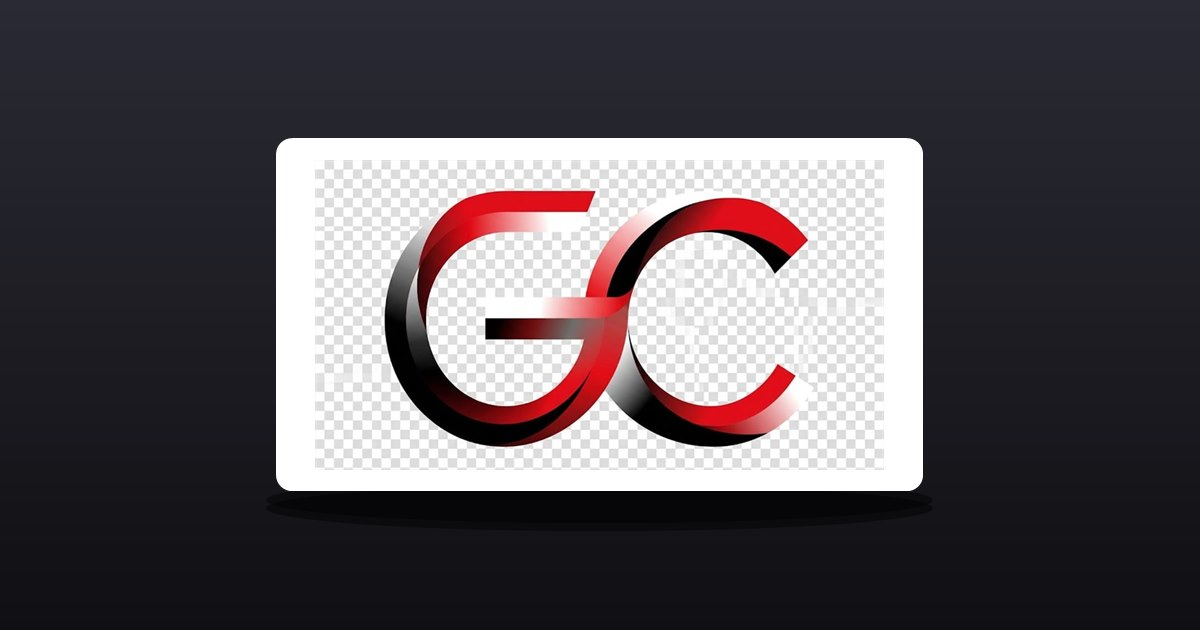
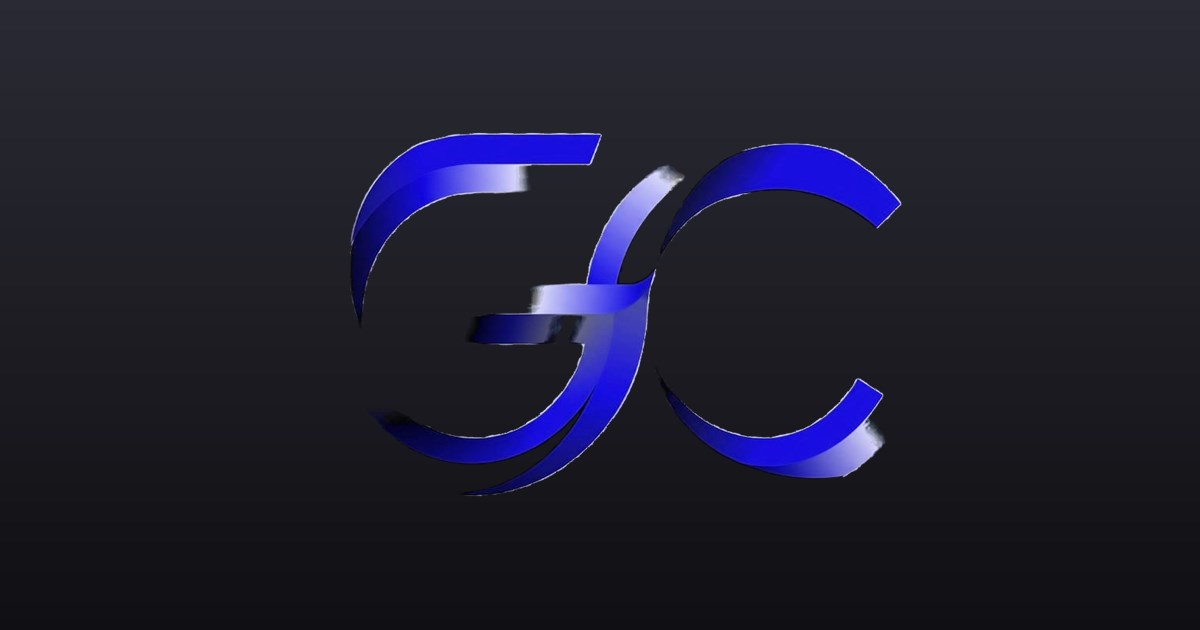
Add files via upload

diff --git a/public/intro.css b/public/intro.css
@@ -47,49 +47,41 @@ html.gc-intro-active body {
   text-align: center;
 }
 
-/* ---------- بطاقة الشعار ---------- */
+/* ---------- الشعار: شفاف تماماً، من غير أي خلفية ---------- */
+/* drop-shadow على عنصر شفاف بيلقط شكل الشعار نفسه، فبيعمل "عمق" من غير كارت */
 .gc-intro-logo {
   position: relative;
-  width: min(78vw, 380px);
-  padding: 22px 26px;
-  border-radius: 26px;
-  background: #fff;
-  box-shadow:
-    0 30px 70px rgba(0, 0, 0, 0.55),
-    0 0 0 1px rgba(255, 255, 255, 0.12) inset;
-  overflow: hidden;
+  width: min(58vw, 250px);
   opacity: 0;
-  transform: translateY(26px) scale(0.9) rotate(-2deg);
+  transform: translateY(26px) scale(0.88) rotate(-3deg);
+  filter: drop-shadow(0 18px 40px rgba(224, 33, 43, 0.32))
+          drop-shadow(0 4px 14px rgba(0, 0, 0, 0.45));
   animation: gcLogoIn 0.95s cubic-bezier(0.16, 1, 0.3, 1) 0.12s forwards;
 }
 .gc-intro-logo img {
   display: block;
   width: 100%;
   height: auto;
-  /* لو الشعار أبيض خلفيته بنخليه object-fit عشان مايطولشش */
-  object-fit: contain;
 }
 .gc-intro-logo::before {
-  /* لمعة بتعدي فوق الشعار */
+  /* هالة ناعمة ورا الشعار بدل الكارت الأبيض */
   content: "";
   position: absolute;
-  top: 0;
-  left: -60%;
-  width: 45%;
-  height: 100%;
-  background: linear-gradient(100deg, transparent, rgba(0, 0, 0, 0.16), transparent);
-  transform: skewX(-18deg);
-  animation: gcShine 1.5s ease 0.85s 1;
+  inset: -28%;
+  z-index: -1;
+  border-radius: 50%;
+  background: radial-gradient(closest-side, rgba(224, 33, 43, 0.22), transparent 72%);
+  animation: gcHalo 2.1s ease 0.2s infinite alternate;
 }
 
 @keyframes gcLogoIn {
-  0%   { opacity: 0; transform: translateY(26px) scale(0.9) rotate(-2deg); }
-  60%  { opacity: 1; transform: translateY(-4px) scale(1.02) rotate(0.5deg); }
+  0%   { opacity: 0; transform: translateY(26px) scale(0.88) rotate(-3deg); }
+  60%  { opacity: 1; transform: translateY(-4px) scale(1.03) rotate(0.6deg); }
   100% { opacity: 1; transform: translateY(0) scale(1) rotate(0deg); }
 }
-@keyframes gcShine {
-  0%   { left: -60%; }
-  100% { left: 130%; }
+@keyframes gcHalo {
+  from { opacity: 0.5; transform: scale(0.94); }
+  to   { opacity: 1;   transform: scale(1.06); }
 }
 
 /* ---------- النص ---------- */

diff --git a/public/intro.js b/public/intro.js
@@ -43,7 +43,7 @@
   el.setAttribute("aria-label", "Welcome to GC");
   el.innerHTML =
     '<div class="gc-intro-box">' +
-    '  <div class="gc-intro-logo"><img src="logo.jpg" alt="GC" width="900" height="491" fetchpriority="high" decoding="async"></div>' +
+    '  <div class="gc-intro-logo"><img src="logo.png" alt="GC" width="788" height="483" fetchpriority="high" decoding="async"></div>' +
     '  <div class="gc-intro-text">' +
     '    <h1 class="gc-intro-en"><span class="gc-w" style="animation-delay:.62s">Welcome</span> <span class="gc-w" style="animation-delay:.74s">to</span> <span class="gc-w" style="animation-delay:.86s">GC</span></h1>' +
     '    <p class="gc-intro-ar">أهلاً بيك في <b>GC</b> — شحن ألعاب فوري</p>' +

diff --git a/public/sw.js b/public/sw.js
@@ -1,6 +1,6 @@
 
 
-const CACHE_NAME = "gamestore-cache-v4";
+const CACHE_NAME = "gamestore-cache-v5";
 
 const PRECACHE = [
   "/index.html",
@@ -21,7 +21,7 @@ const PRECACHE = [
   "/icon-512-maskable.png",
   "/apple-touch-icon.png",
   "/favicon.ico",
-  "/logo.jpg",
+  "/logo.png",
   "/og-image.jpg",
   "/intro.css",
   "/intro.js"
